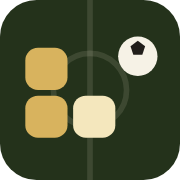
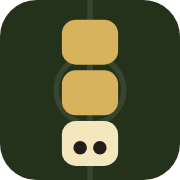
The I of PITCH is a snake going down
The icon and the preview card now carry the wordmark's own idea rather than a
generic snake: the I of PITCH is three segments with the head last, eyes punched
out of the bottom one.

The card's wordmark is drawn to a canvas instead of laid out in CSS, which is
not the obvious choice and is the only one that works. The snake has to sit on
exactly the cap height of the letters beside it, and CSS cannot say where that
is; the first attempt guessed an offset and produced a wordmark reading P.TCH
with the snake hanging into the line below. Canvas knows:
measureText().actualBoundingBoxAscent is the real ink top of that glyph in that
face at that size, so every part of the mark is positioned off one measurement
and the type size can change without a single number being retuned. It is
painted twice, gold drop then ink, because that is the wordmark's existing look
and a snake without it reads as a picture dropped into a word rather than a
letter standing in a word.

The tab icon is the snake-I alone on the pitch's green, and deliberately not
the whole wordmark: a favicon is read at 16px, two stacked words turn to mush
at that size, and the snake-I is the one piece of this logo that still reads
there while being unmistakably this game. It is hand-written SVG containing no
text at all, since a favicon does not reliably get a webfont and a wordmark
falling back to Helvetica has stopped being the logo. Checked at 16, 24, 32, 48
and 64.
[…]

diff --git a/tools/og-card.html b/tools/og-card.html
@@ -1,0 +1,114 @@
+<!DOCTYPE html>
+<html><head><meta charset="utf-8">
+<link rel="preconnect" href="https://fonts.googleapis.com">
+<link rel="preconnect" href="https://fonts.gstatic.com" crossorigin>
+<link href="https://fonts.googleapis.com/css2?family=Anton&family=Barlow:wght@600;700&display=swap" rel="stylesheet">
+<style>
+  * { margin: 0; padding: 0; box-sizing: border-box; }
+  body { width: 1200px; height: 630px; background: #efe6d0; overflow: hidden;
+         font-family: 'Barlow', sans-serif; }
+  .wrap { display: flex; width: 100%; height: 100%; align-items: center; padding: 0 70px; gap: 56px; }
+  .left { flex: 1; }
+  #mark { display: block; }
+  .tag { margin-top: 30px; font-size: 37px; font-weight: 700; color: #3d382e; line-height: 1.24; }
+  .sub { margin-top: 18px; font-size: 27px; font-weight: 600; color: #6b6553; line-height: 1.3; }
+  .url { margin-top: 30px; font-family: 'Anton', sans-serif; font-size: 27px; letter-spacing: 3px;
+         color: #8a6f33; }
+  .pitch { width: 430px; height: 430px; border-radius: 18px; position: relative; flex-shrink: 0;
+           background: #24321b; box-shadow: 0 16px 44px rgba(33,30,26,0.3);
+           background-image: repeating-linear-gradient(90deg, rgba(255,255,255,0.03) 0 27px, transparent 27px 54px); }
+  .pitch::before { content: ''; position: absolute; left: 50%; top: 0; bottom: 0; width: 2px;
+                   background: rgba(244,236,216,0.14); }
+  .pitch::after { content: ''; position: absolute; left: 50%; top: 50%; width: 142px; height: 142px;
+                  transform: translate(-50%,-50%); border: 2px solid rgba(244,236,216,0.14); border-radius: 50%; }
+  .seg { position: absolute; width: 40px; height: 40px; border-radius: 11px; background: #d8b35e;
+         box-shadow: 0 0 16px rgba(216,179,94,0.42); }
+  .hd { background: #f4e7bd; box-shadow: 0 0 22px rgba(216,179,94,0.7); }
+  .pip { position: absolute; width: 7px; height: 7px; border-radius: 50%; background: #211e1a; top: 12px; }
+  .em { position: absolute; font-size: 34px; line-height: 1; }
+</style></head>
+<body><div class="wrap">
+  <div class="left">
+    <canvas id="mark" width="1120" height="440"></canvas>
+    <div class="tag">Eat to grow.<br>Survive the pitch.</div>
+    <div class="sub">Five players, one ball, and ghosts that hunt you.</div>
+    <div class="url">PITCHSNAKE.COM</div>
+  </div>
+  <div class="pitch">
+    <div class="seg hd" style="left:270px; top:130px">
+      <div class="pip" style="left:9px"></div><div class="pip" style="left:24px"></div>
+    </div>
+    <div class="seg" style="left:225px; top:130px"></div>
+    <div class="seg" style="left:180px; top:130px"></div>
+    <div class="seg" style="left:180px; top:175px"></div>
+    <div class="seg" style="left:180px; top:220px"></div>
+    <div class="seg" style="left:135px; top:220px"></div>
+    <div class="seg" style="left:90px;  top:220px"></div>
+    <div class="seg" style="left:90px;  top:265px"></div>
+    <div class="em" style="left:322px; top:288px">⚽</div>
+    <div class="em" style="left:78px;  top:88px">👻</div>
+    <div class="em" style="left:330px; top:66px">👻</div>
+  </div>
+</div>
+
+<script>
+// The wordmark is drawn rather than laid out, because the snake has to sit ON
+// the cap height of the letters beside it and CSS will not tell you where that
+// is. Canvas will: measureText's actualBoundingBoxAscent is the real ink top of
+// the glyph in this exact face at this exact size, so the segments are placed
+// against the letters' own geometry instead of a guessed offset.
+function draw() {
+  const c = document.getElementById('mark'), x = c.getContext('2d');
+  const SIZE = 122, INK = '#211e1a', GOLD = '#c2a25a', DROP = 6, SCALE = 2;
+  const font = SIZE + "px Anton, sans-serif";
+
+  // Measure first, size the canvas to the ink, and only then draw. A canvas
+  // bigger than its artwork is invisible padding that shoves the rest of the
+  // card off the edge, which is exactly what a fixed guess did here.
+  x.font = font;
+  const cap  = x.measureText('H').actualBoundingBoxAscent;
+  const stem = x.measureText('I').width;
+  const wP = x.measureText('P').width, wTCH = x.measureText('TCH').width;
+  const wSNAKE = x.measureText('SNAKE').width;
+  const line1 = 0, line2 = cap * 1.16;
+  const W = Math.ceil(Math.max(wP + stem + wTCH, wSNAKE) + DROP + 2);
+  const H = Math.ceil(line2 + cap + DROP + 2);
+
+  c.width = W * SCALE; c.height = H * SCALE;
+  c.style.width = W + 'px'; c.style.height = H + 'px';
+  x.scale(SCALE, SCALE);
+  x.font = font; x.textBaseline = 'alphabetic';
+
+  const gap = Math.round(cap * 0.05);
+  const segH = (cap - gap * 2) / 3;
+  const segW = stem * 0.88;
+  const radius = segW * 0.3;
+  const sx = wP + (stem - segW) / 2;
+
+  // Painted twice: the gold drop first, offset, then the ink over it. That is
+  // the wordmark's existing look, and the snake has to share it or it stops
+  // reading as a letter and starts reading as a picture dropped into a word.
+  for (const pass of [{ d: DROP, fill: GOLD }, { d: 0, fill: INK }]) {
+    x.fillStyle = pass.fill;
+    x.fillText('P', pass.d, line1 + cap + pass.d);
+    for (let i = 0; i < 3; i++) {
+      x.beginPath();
+      x.roundRect(sx + pass.d, line1 + i * (segH + gap) + pass.d, segW, segH, radius);
+      x.fill();
+    }
+    x.fillText('TCH', wP + stem + pass.d, line1 + cap + pass.d);
+    x.fillText('SNAKE', pass.d, line2 + cap + pass.d);
+  }
+
+  // Eyes punched in the page's cream, so they read as holes in the head rather
+  // than dots sitting on it. Head is the LAST segment: the snake is going down.
+  const headY = line1 + 2 * (segH + gap);
+  x.fillStyle = '#efe6d0';
+  for (const ex of [sx + segW * 0.3, sx + segW * 0.7]) {
+    x.beginPath(); x.arc(ex, headY + segH * 0.6, segW * 0.12, 0, 7); x.fill();
+  }
+  document.body.dataset.drawn = '1';
+}
+document.fonts.ready.then(draw);
+</script>
+</body></html>

diff --git a/tools/README.md b/tools/README.md
@@ -1,0 +1,28 @@
+# tools
+
+Sources for artwork that is committed as an image but should never be redrawn
+by hand.
+
+## og-card.html
+
+The social preview card, rendered to `assets/og.png`. Open it in a browser at
+1200x630 and screenshot it, or drive it headless:
+
+```bash
+python3 -m http.server 8777
+# then capture http://localhost:8777/tools/og-card.html at exactly 1200x630
+```
+
+The wordmark inside it is drawn to a canvas rather than laid out in CSS, and
+that is the whole reason this file exists. The I of PITCH is a snake going
+down, three segments with the head last, and it has to sit on the same cap
+height as the letters beside it. CSS will not tell you where that is; canvas
+will, because `measureText().actualBoundingBoxAscent` is the real ink top of
+the glyph in that face at that size. Everything else in the mark is positioned
+off that one measurement, so changing the type size moves the snake correctly
+without any numbers being retuned.
+
+`assets/icon.svg` is the same idea reduced to what survives 16px: the snake-I
+alone on the pitch's green. It is hand-written SVG with no text in it, because
+a favicon does not reliably get a webfont and a wordmark that falls back to
+Helvetica has stopped being the logo.
